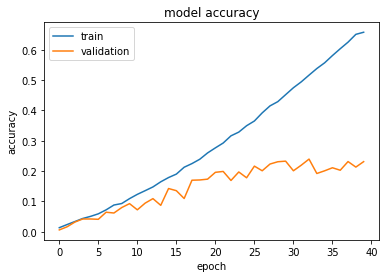
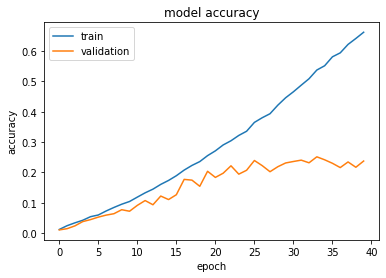
add files

diff --git a/examples/vision/md/image_classification_efficientnet_fine_tuning.md b/examples/vision/md/image_classification_efficientnet_fine_tuning.md
@@ -408,89 +408,85 @@ Trainable params: 4,161,268
 Non-trainable params: 42,023
 _________________________________________________________________
 Epoch 1/40
-WARNING:tensorflow:Callbacks method `on_train_batch_end` is slow compared to the batch time (batch time: 0.0947s vs `on_train_batch_end` time: 0.1790s). Check your callbacks.
-
-WARNING:tensorflow:Callbacks method `on_train_batch_end` is slow compared to the batch time (batch time: 0.0947s vs `on_train_batch_end` time: 0.1790s). Check your callbacks.
-
-187/187 - 66s - loss: 4.9429 - accuracy: 0.0133 - val_loss: 5.2106 - val_accuracy: 0.0059
+187/187 - 66s - loss: 4.9221 - accuracy: 0.0119 - val_loss: 4.9835 - val_accuracy: 0.0104
 Epoch 2/40
-187/187 - 64s - loss: 4.6114 - accuracy: 0.0236 - val_loss: 5.3730 - val_accuracy: 0.0162
+187/187 - 63s - loss: 4.5652 - accuracy: 0.0243 - val_loss: 5.1626 - val_accuracy: 0.0145
 Epoch 3/40
-187/187 - 63s - loss: 4.4569 - accuracy: 0.0336 - val_loss: 4.4777 - val_accuracy: 0.0318
+187/187 - 63s - loss: 4.4179 - accuracy: 0.0337 - val_loss: 4.7597 - val_accuracy: 0.0237
 Epoch 4/40
-187/187 - 63s - loss: 4.3158 - accuracy: 0.0436 - val_loss: 4.2851 - val_accuracy: 0.0420
+187/187 - 63s - loss: 4.2964 - accuracy: 0.0421 - val_loss: 4.4028 - val_accuracy: 0.0378
 Epoch 5/40
-187/187 - 63s - loss: 4.2200 - accuracy: 0.0506 - val_loss: 4.3940 - val_accuracy: 0.0420
+187/187 - 63s - loss: 4.1951 - accuracy: 0.0540 - val_loss: 4.3048 - val_accuracy: 0.0443
 Epoch 6/40
-187/187 - 62s - loss: 4.1251 - accuracy: 0.0590 - val_loss: 4.3120 - val_accuracy: 0.0409
+187/187 - 63s - loss: 4.1025 - accuracy: 0.0596 - val_loss: 4.1918 - val_accuracy: 0.0526
 Epoch 7/40
-187/187 - 64s - loss: 4.0193 - accuracy: 0.0721 - val_loss: 4.1186 - val_accuracy: 0.0642
+187/187 - 63s - loss: 4.0157 - accuracy: 0.0728 - val_loss: 4.1482 - val_accuracy: 0.0591
 Epoch 8/40
-187/187 - 63s - loss: 3.9211 - accuracy: 0.0880 - val_loss: 4.1713 - val_accuracy: 0.0617
+187/187 - 62s - loss: 3.9344 - accuracy: 0.0844 - val_loss: 4.1088 - val_accuracy: 0.0638
 Epoch 9/40
-187/187 - 64s - loss: 3.8596 - accuracy: 0.0929 - val_loss: 3.9628 - val_accuracy: 0.0796
+187/187 - 63s - loss: 3.8529 - accuracy: 0.0951 - val_loss: 4.0692 - val_accuracy: 0.0770
 Epoch 10/40
-187/187 - 64s - loss: 3.7631 - accuracy: 0.1090 - val_loss: 3.9563 - val_accuracy: 0.0926
+187/187 - 63s - loss: 3.7650 - accuracy: 0.1040 - val_loss: 4.1468 - val_accuracy: 0.0719
 Epoch 11/40
-187/187 - 64s - loss: 3.6673 - accuracy: 0.1232 - val_loss: 4.1761 - val_accuracy: 0.0722
+187/187 - 63s - loss: 3.6858 - accuracy: 0.1185 - val_loss: 4.0484 - val_accuracy: 0.0913
 Epoch 12/40
-187/187 - 64s - loss: 3.5783 - accuracy: 0.1353 - val_loss: 3.9438 - val_accuracy: 0.0942
+187/187 - 63s - loss: 3.5942 - accuracy: 0.1326 - val_loss: 3.8047 - val_accuracy: 0.1072
 Epoch 13/40
-187/187 - 64s - loss: 3.5005 - accuracy: 0.1476 - val_loss: 3.9076 - val_accuracy: 0.1090
+187/187 - 63s - loss: 3.5028 - accuracy: 0.1447 - val_loss: 3.9513 - val_accuracy: 0.0933
 Epoch 14/40
-187/187 - 64s - loss: 3.4029 - accuracy: 0.1645 - val_loss: 4.2099 - val_accuracy: 0.0870
+187/187 - 63s - loss: 3.4295 - accuracy: 0.1604 - val_loss: 3.7738 - val_accuracy: 0.1220
 Epoch 15/40
-187/187 - 64s - loss: 3.2997 - accuracy: 0.1786 - val_loss: 3.6182 - val_accuracy: 0.1424
+187/187 - 63s - loss: 3.3410 - accuracy: 0.1735 - val_loss: 3.9104 - val_accuracy: 0.1104
 Epoch 16/40
-187/187 - 69s - loss: 3.2280 - accuracy: 0.1899 - val_loss: 3.7401 - val_accuracy: 0.1353
+187/187 - 63s - loss: 3.2511 - accuracy: 0.1890 - val_loss: 3.6904 - val_accuracy: 0.1264
 Epoch 17/40
-187/187 - 65s - loss: 3.1240 - accuracy: 0.2126 - val_loss: 4.0326 - val_accuracy: 0.1095
+187/187 - 63s - loss: 3.1624 - accuracy: 0.2076 - val_loss: 3.4026 - val_accuracy: 0.1769
 Epoch 18/40
-187/187 - 63s - loss: 3.0372 - accuracy: 0.2246 - val_loss: 3.5171 - val_accuracy: 0.1698
+187/187 - 63s - loss: 3.0825 - accuracy: 0.2229 - val_loss: 3.4627 - val_accuracy: 0.1744
 Epoch 19/40
-187/187 - 63s - loss: 2.9607 - accuracy: 0.2389 - val_loss: 3.5527 - val_accuracy: 0.1706
+187/187 - 63s - loss: 3.0041 - accuracy: 0.2355 - val_loss: 3.6061 - val_accuracy: 0.1542
 Epoch 20/40
-187/187 - 64s - loss: 2.8683 - accuracy: 0.2597 - val_loss: 3.5016 - val_accuracy: 0.1733
+187/187 - 64s - loss: 2.8945 - accuracy: 0.2552 - val_loss: 3.2769 - val_accuracy: 0.2036
 Epoch 21/40
-187/187 - 64s - loss: 2.7838 - accuracy: 0.2764 - val_loss: 3.3646 - val_accuracy: 0.1958
+187/187 - 63s - loss: 2.8054 - accuracy: 0.2710 - val_loss: 3.5355 - val_accuracy: 0.1834
 Epoch 22/40
-187/187 - 64s - loss: 2.6932 - accuracy: 0.2924 - val_loss: 3.3625 - val_accuracy: 0.1987
+187/187 - 63s - loss: 2.7342 - accuracy: 0.2904 - val_loss: 3.3540 - val_accuracy: 0.1973
 Epoch 23/40
-187/187 - 63s - loss: 2.6073 - accuracy: 0.3161 - val_loss: 3.6400 - val_accuracy: 0.1690
+187/187 - 62s - loss: 2.6258 - accuracy: 0.3042 - val_loss: 3.2608 - val_accuracy: 0.2217
 Epoch 24/40
-187/187 - 63s - loss: 2.5183 - accuracy: 0.3284 - val_loss: 3.4461 - val_accuracy: 0.1969
+187/187 - 62s - loss: 2.5453 - accuracy: 0.3218 - val_loss: 3.4611 - val_accuracy: 0.1941
 Epoch 25/40
-187/187 - 64s - loss: 2.4168 - accuracy: 0.3493 - val_loss: 3.5591 - val_accuracy: 0.1778
+187/187 - 63s - loss: 2.4585 - accuracy: 0.3356 - val_loss: 3.4163 - val_accuracy: 0.2070
 Epoch 26/40
-187/187 - 63s - loss: 2.3308 - accuracy: 0.3650 - val_loss: 3.3599 - val_accuracy: 0.2162
+187/187 - 62s - loss: 2.3606 - accuracy: 0.3647 - val_loss: 3.2558 - val_accuracy: 0.2392
 Epoch 27/40
-187/187 - 64s - loss: 2.2457 - accuracy: 0.3917 - val_loss: 3.5468 - val_accuracy: 0.2009
+187/187 - 63s - loss: 2.2819 - accuracy: 0.3801 - val_loss: 3.3676 - val_accuracy: 0.2222
 Epoch 28/40
-187/187 - 64s - loss: 2.1452 - accuracy: 0.4148 - val_loss: 3.4418 - val_accuracy: 0.2231
+187/187 - 62s - loss: 2.2114 - accuracy: 0.3933 - val_loss: 3.6578 - val_accuracy: 0.2022
 Epoch 29/40
-187/187 - 64s - loss: 2.0703 - accuracy: 0.4287 - val_loss: 3.4543 - val_accuracy: 0.2306
+187/187 - 62s - loss: 2.0964 - accuracy: 0.4215 - val_loss: 3.5366 - val_accuracy: 0.2186
 Epoch 30/40
-187/187 - 64s - loss: 1.9466 - accuracy: 0.4517 - val_loss: 3.4762 - val_accuracy: 0.2326
+187/187 - 63s - loss: 1.9931 - accuracy: 0.4459 - val_loss: 3.5612 - val_accuracy: 0.2310
 Epoch 31/40
-187/187 - 64s - loss: 1.8885 - accuracy: 0.4746 - val_loss: 3.8991 - val_accuracy: 0.2009
+187/187 - 63s - loss: 1.8924 - accuracy: 0.4657 - val_loss: 3.4780 - val_accuracy: 0.2359
 Epoch 32/40
-187/187 - 63s - loss: 1.7984 - accuracy: 0.4939 - val_loss: 3.7480 - val_accuracy: 0.2192
+187/187 - 63s - loss: 1.8095 - accuracy: 0.4874 - val_loss: 3.5776 - val_accuracy: 0.2403
 Epoch 33/40
-187/187 - 64s - loss: 1.6957 - accuracy: 0.5161 - val_loss: 3.7242 - val_accuracy: 0.2394
+187/187 - 63s - loss: 1.7126 - accuracy: 0.5086 - val_loss: 3.6865 - val_accuracy: 0.2316
 Epoch 34/40
-187/187 - 63s - loss: 1.6105 - accuracy: 0.5379 - val_loss: 4.3845 - val_accuracy: 0.1919
+187/187 - 63s - loss: 1.6117 - accuracy: 0.5373 - val_loss: 3.6419 - val_accuracy: 0.2513
 Epoch 35/40
-187/187 - 64s - loss: 1.5278 - accuracy: 0.5567 - val_loss: 4.1898 - val_accuracy: 0.2008
+187/187 - 63s - loss: 1.5532 - accuracy: 0.5514 - val_loss: 3.8050 - val_accuracy: 0.2415
 Epoch 36/40
-187/187 - 64s - loss: 1.4331 - accuracy: 0.5806 - val_loss: 4.2426 - val_accuracy: 0.2108
+187/187 - 63s - loss: 1.4479 - accuracy: 0.5809 - val_loss: 4.0113 - val_accuracy: 0.2299
 Epoch 37/40
-187/187 - 63s - loss: 1.3563 - accuracy: 0.6032 - val_loss: 4.2700 - val_accuracy: 0.2027
+187/187 - 62s - loss: 1.3885 - accuracy: 0.5939 - val_loss: 4.1262 - val_accuracy: 0.2158
 Epoch 38/40
-187/187 - 64s - loss: 1.2668 - accuracy: 0.6248 - val_loss: 4.0390 - val_accuracy: 0.2312
+187/187 - 63s - loss: 1.2979 - accuracy: 0.6217 - val_loss: 4.2519 - val_accuracy: 0.2344
 Epoch 39/40
-187/187 - 64s - loss: 1.1917 - accuracy: 0.6506 - val_loss: 4.3676 - val_accuracy: 0.2130
+187/187 - 62s - loss: 1.2066 - accuracy: 0.6413 - val_loss: 4.3924 - val_accuracy: 0.2169
 Epoch 40/40
-187/187 - 63s - loss: 1.1322 - accuracy: 0.6575 - val_loss: 4.2741 - val_accuracy: 0.2310
+187/187 - 62s - loss: 1.1348 - accuracy: 0.6618 - val_loss: 4.2216 - val_accuracy: 0.2374
 
 ```
 </div>
@@ -587,55 +583,55 @@ plot_hist(hist)
 <div class="k-default-codeblock">
 ```
 Epoch 1/25
-187/187 - 34s - loss: 3.5312 - accuracy: 0.3681 - val_loss: 0.9583 - val_accuracy: 0.7200
+187/187 - 33s - loss: 3.5673 - accuracy: 0.3624 - val_loss: 1.0288 - val_accuracy: 0.6957
 Epoch 2/25
-187/187 - 32s - loss: 1.8542 - accuracy: 0.5243 - val_loss: 0.7978 - val_accuracy: 0.7576
+187/187 - 31s - loss: 1.8503 - accuracy: 0.5232 - val_loss: 0.8439 - val_accuracy: 0.7484
 Epoch 3/25
-187/187 - 32s - loss: 1.5332 - accuracy: 0.5735 - val_loss: 0.7768 - val_accuracy: 0.7655
+187/187 - 31s - loss: 1.5511 - accuracy: 0.5772 - val_loss: 0.7953 - val_accuracy: 0.7563
 Epoch 4/25
-187/187 - 32s - loss: 1.4653 - accuracy: 0.5869 - val_loss: 0.7922 - val_accuracy: 0.7618
+187/187 - 31s - loss: 1.4660 - accuracy: 0.5878 - val_loss: 0.8061 - val_accuracy: 0.7535
 Epoch 5/25
-187/187 - 32s - loss: 1.3851 - accuracy: 0.6094 - val_loss: 0.7849 - val_accuracy: 0.7698
+187/187 - 31s - loss: 1.4143 - accuracy: 0.6034 - val_loss: 0.7850 - val_accuracy: 0.7569
 Epoch 6/25
-187/187 - 32s - loss: 1.3779 - accuracy: 0.6125 - val_loss: 0.7551 - val_accuracy: 0.7743
+187/187 - 31s - loss: 1.4000 - accuracy: 0.6054 - val_loss: 0.7846 - val_accuracy: 0.7646
 Epoch 7/25
-187/187 - 32s - loss: 1.3498 - accuracy: 0.6142 - val_loss: 0.7820 - val_accuracy: 0.7639
+187/187 - 31s - loss: 1.3678 - accuracy: 0.6173 - val_loss: 0.7850 - val_accuracy: 0.7682
 Epoch 8/25
-187/187 - 32s - loss: 1.3550 - accuracy: 0.6168 - val_loss: 0.8196 - val_accuracy: 0.7586
+187/187 - 31s - loss: 1.3286 - accuracy: 0.6222 - val_loss: 0.8142 - val_accuracy: 0.7608
 Epoch 9/25
-187/187 - 32s - loss: 1.3335 - accuracy: 0.6223 - val_loss: 0.8514 - val_accuracy: 0.7576
+187/187 - 31s - loss: 1.3210 - accuracy: 0.6245 - val_loss: 0.7890 - val_accuracy: 0.7669
 Epoch 10/25
-187/187 - 32s - loss: 1.2962 - accuracy: 0.6315 - val_loss: 0.8611 - val_accuracy: 0.7575
+187/187 - 31s - loss: 1.3086 - accuracy: 0.6278 - val_loss: 0.8368 - val_accuracy: 0.7575
 Epoch 11/25
-187/187 - 32s - loss: 1.2961 - accuracy: 0.6303 - val_loss: 0.8240 - val_accuracy: 0.7656
+187/187 - 31s - loss: 1.2877 - accuracy: 0.6315 - val_loss: 0.8309 - val_accuracy: 0.7599
 Epoch 12/25
-187/187 - 32s - loss: 1.2982 - accuracy: 0.6308 - val_loss: 0.8727 - val_accuracy: 0.7564
+187/187 - 31s - loss: 1.2918 - accuracy: 0.6308 - val_loss: 0.8319 - val_accuracy: 0.7535
 Epoch 13/25
-187/187 - 32s - loss: 1.2829 - accuracy: 0.6410 - val_loss: 0.8177 - val_accuracy: 0.7663
+187/187 - 31s - loss: 1.2738 - accuracy: 0.6373 - val_loss: 0.8567 - val_accuracy: 0.7576
 Epoch 14/25
-187/187 - 32s - loss: 1.2776 - accuracy: 0.6385 - val_loss: 0.8002 - val_accuracy: 0.7717
+187/187 - 31s - loss: 1.2837 - accuracy: 0.6410 - val_loss: 0.8004 - val_accuracy: 0.7697
 Epoch 15/25
-187/187 - 32s - loss: 1.2914 - accuracy: 0.6380 - val_loss: 0.8370 - val_accuracy: 0.7613
+187/187 - 31s - loss: 1.2828 - accuracy: 0.6403 - val_loss: 0.8364 - val_accuracy: 0.7625
 Epoch 16/25
-187/187 - 32s - loss: 1.2883 - accuracy: 0.6388 - val_loss: 0.8462 - val_accuracy: 0.7611
+187/187 - 31s - loss: 1.2749 - accuracy: 0.6405 - val_loss: 0.8558 - val_accuracy: 0.7565
 Epoch 17/25
-187/187 - 32s - loss: 1.2700 - accuracy: 0.6393 - val_loss: 0.8654 - val_accuracy: 0.7557
+187/187 - 31s - loss: 1.3022 - accuracy: 0.6352 - val_loss: 0.8361 - val_accuracy: 0.7551
 Epoch 18/25
-187/187 - 32s - loss: 1.2513 - accuracy: 0.6484 - val_loss: 0.8444 - val_accuracy: 0.7659
+187/187 - 31s - loss: 1.2848 - accuracy: 0.6394 - val_loss: 0.8958 - val_accuracy: 0.7479
 Epoch 19/25
-187/187 - 32s - loss: 1.3034 - accuracy: 0.6348 - val_loss: 0.8649 - val_accuracy: 0.7583
+187/187 - 31s - loss: 1.2791 - accuracy: 0.6420 - val_loss: 0.8875 - val_accuracy: 0.7509
 Epoch 20/25
-187/187 - 32s - loss: 1.2572 - accuracy: 0.6461 - val_loss: 0.8921 - val_accuracy: 0.7543
+187/187 - 30s - loss: 1.2834 - accuracy: 0.6416 - val_loss: 0.8653 - val_accuracy: 0.7607
 Epoch 21/25
-187/187 - 32s - loss: 1.2986 - accuracy: 0.6426 - val_loss: 0.8980 - val_accuracy: 0.7545
+187/187 - 30s - loss: 1.2608 - accuracy: 0.6435 - val_loss: 0.8451 - val_accuracy: 0.7612
 Epoch 22/25
-187/187 - 32s - loss: 1.2734 - accuracy: 0.6431 - val_loss: 0.8824 - val_accuracy: 0.7603
+187/187 - 30s - loss: 1.2780 - accuracy: 0.6390 - val_loss: 0.9035 - val_accuracy: 0.7486
 Epoch 23/25
-187/187 - 32s - loss: 1.2580 - accuracy: 0.6531 - val_loss: 0.9005 - val_accuracy: 0.7591
+187/187 - 30s - loss: 1.2742 - accuracy: 0.6473 - val_loss: 0.8837 - val_accuracy: 0.7556
 Epoch 24/25
-187/187 - 31s - loss: 1.2607 - accuracy: 0.6458 - val_loss: 0.8893 - val_accuracy: 0.7563
+187/187 - 30s - loss: 1.2609 - accuracy: 0.6434 - val_loss: 0.9233 - val_accuracy: 0.7524
 Epoch 25/25
-187/187 - 31s - loss: 1.2653 - accuracy: 0.6462 - val_loss: 0.8996 - val_accuracy: 0.7579
+187/187 - 31s - loss: 1.2630 - accuracy: 0.6496 - val_loss: 0.9116 - val_accuracy: 0.7584
 
 ```
 </div>
@@ -669,10 +665,10 @@ to `True`.
 ```python
 
 def unfreeze_model(model):
-    model.trainable = True
-    for l in model.layers:
-        if isinstance(l, layers.BatchNormalization):
-            l.trainable = False
+    # We unfreeze the top 20 layers while leaving BatchNorm layers frozen
+    for layer in model.layers[-20:]:
+        if not isinstance(layer, layers.BatchNormalization):
+            layer.trainable = True
 
     optimizer = tf.keras.optimizers.Adam(learning_rate=1e-4)
     model.compile(
@@ -690,33 +686,29 @@ plot_hist(hist)
 <div class="k-default-codeblock">
 ```
 Epoch 1/10
-WARNING:tensorflow:Callbacks method `on_train_batch_end` is slow compared to the batch time (batch time: 0.0870s vs `on_train_batch_end` time: 0.1970s). Check your callbacks.
-
-WARNING:tensorflow:Callbacks method `on_train_batch_end` is slow compared to the batch time (batch time: 0.0870s vs `on_train_batch_end` time: 0.1970s). Check your callbacks.
-
-187/187 - 68s - loss: 0.8779 - accuracy: 0.7368 - val_loss: 0.8819 - val_accuracy: 0.7632
+187/187 - 33s - loss: 0.9956 - accuracy: 0.7080 - val_loss: 0.7644 - val_accuracy: 0.7856
 Epoch 2/10
-187/187 - 65s - loss: 0.6701 - accuracy: 0.7904 - val_loss: 0.8961 - val_accuracy: 0.7656
+187/187 - 31s - loss: 0.8885 - accuracy: 0.7352 - val_loss: 0.7696 - val_accuracy: 0.7866
 Epoch 3/10
-187/187 - 65s - loss: 0.5687 - accuracy: 0.8169 - val_loss: 1.0059 - val_accuracy: 0.7500
+187/187 - 31s - loss: 0.8059 - accuracy: 0.7533 - val_loss: 0.7659 - val_accuracy: 0.7885
 Epoch 4/10
-187/187 - 65s - loss: 0.5003 - accuracy: 0.8370 - val_loss: 0.9159 - val_accuracy: 0.7631
+187/187 - 32s - loss: 0.7648 - accuracy: 0.7675 - val_loss: 0.7730 - val_accuracy: 0.7866
 Epoch 5/10
-187/187 - 65s - loss: 0.4289 - accuracy: 0.8588 - val_loss: 1.0163 - val_accuracy: 0.7483
+187/187 - 32s - loss: 0.6982 - accuracy: 0.7833 - val_loss: 0.7691 - val_accuracy: 0.7858
 Epoch 6/10
-187/187 - 66s - loss: 0.3918 - accuracy: 0.8709 - val_loss: 1.0123 - val_accuracy: 0.7492
+187/187 - 31s - loss: 0.6823 - accuracy: 0.7880 - val_loss: 0.7814 - val_accuracy: 0.7872
 Epoch 7/10
-187/187 - 65s - loss: 0.3449 - accuracy: 0.8857 - val_loss: 0.9954 - val_accuracy: 0.7548
+187/187 - 31s - loss: 0.6536 - accuracy: 0.7953 - val_loss: 0.7850 - val_accuracy: 0.7873
 Epoch 8/10
-187/187 - 65s - loss: 0.3163 - accuracy: 0.8951 - val_loss: 1.0964 - val_accuracy: 0.7369
+187/187 - 31s - loss: 0.6104 - accuracy: 0.8111 - val_loss: 0.7774 - val_accuracy: 0.7879
 Epoch 9/10
-187/187 - 66s - loss: 0.2803 - accuracy: 0.9056 - val_loss: 1.0566 - val_accuracy: 0.7458
+187/187 - 32s - loss: 0.5990 - accuracy: 0.8067 - val_loss: 0.7925 - val_accuracy: 0.7870
 Epoch 10/10
-187/187 - 66s - loss: 0.2560 - accuracy: 0.9146 - val_loss: 1.0665 - val_accuracy: 0.7408
+187/187 - 31s - loss: 0.5531 - accuracy: 0.8239 - val_loss: 0.7870 - val_accuracy: 0.7836
 
 ```
 </div>
-![png](/img/examples/vision/image_classification_efficientnet_fine_tuning/image_classification_efficientnet_fine_tuning_26_3.png)
+![png](/img/examples/vision/image_classification_efficientnet_fine_tuning/image_classification_efficientnet_fine_tuning_26_1.png)
 
 
 ### Tips for fine tuning EfficientNet
